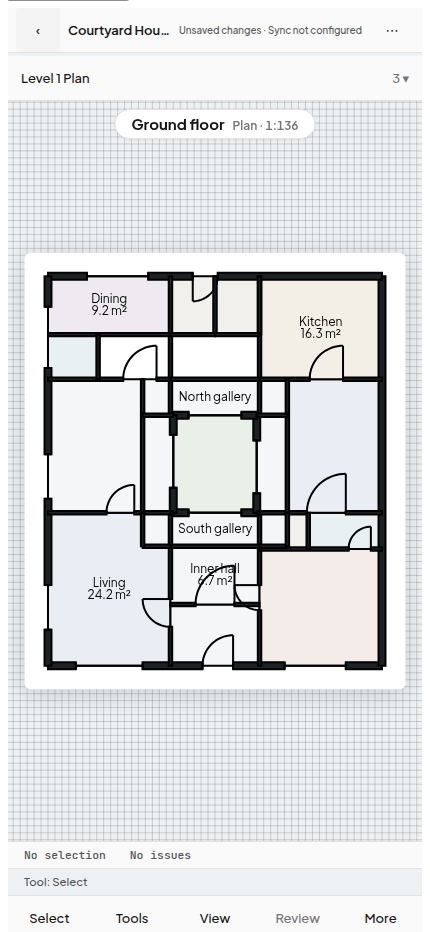
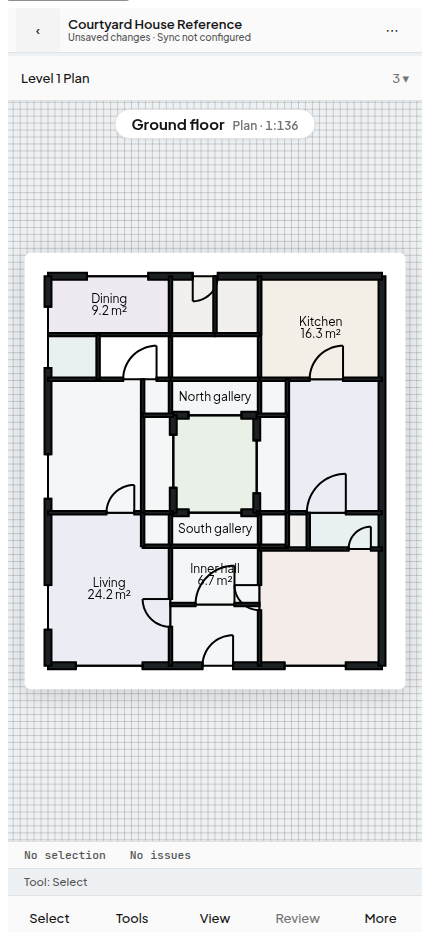
Make the left edge one dock, and stop the phone truncating its own project
Two of the defects from my own critique of the last capture.

**One dock, not two.** The mode rail and the tool rail are separate components
on purpose - they answer different questions and keep their own landmarks and
labels - but they were also two floating *cards* with a gutter between them, so
the left edge read as two toolbars competing for the same job. They are joined
by geometry now: the seam closes, the outer corners keep their radius, and
nothing about the accessibility tree changes. The reference gives the whole edge
to one dock and so does this.

**The phone was truncating the project rather than the status.** The name had
`flex: 1` and ellipsis while the status beside it was `flex: 0 0 auto` and
`nowrap`, so on a 430px bar the status always won and the project came out as
"Courtyard Hou…". Identity was losing to state in the one place doc 36 says
identity never disappears. Stacked now: the name takes the full width and state
sits underneath in a quieter voice, which is both the order they are read in and
the order they matter in. Neither is dropped.

Evidence: `pnpm vitest run` 3,624 tests / 336 files uncached; typecheck, lint,
build and the language ladder clean; four-viewport capture green, and the phone
capture shows "Courtyard House Reference" in full.

Claude-Session: https://claude.ai/code/session_01TEEE1RRTKuqjgx5nTuYNHd

Changed region(s): [[0.1512, 0.0, 0.6047, 0.0622], [0.6349, 0.0311, 0.8465, 0.0622]]

diff --git a/packages/design-system/src/workspace/phone-project-bar.tsx b/packages/design-system/src/workspace/phone-project-bar.tsx
@@ -121,34 +121,49 @@ export function PhoneProjectBar(props: PhoneProjectBarProps): JSX.Element {
 
       {logo}
 
+      {/*
+       * Stacked, and that is a correction rather than a style preference.
+       *
+       * The name took `flex: 1` and truncated while the status beside it was
+       * `flex: 0 0 auto` and `nowrap` - so on a 430px bar the status always won
+       * and the project came out as "Courtyard Hou…". Identity was losing to
+       * state in the one place doc 36 says identity never disappears.
+       *
+       * Two lines gives the name the full width and puts state underneath in a
+       * quieter voice, which is the order they are read in and the order they
+       * matter in. Neither is dropped.
+       */}
       <span
-        className="arq-phone-project-bar__name"
-        // Doc 36: project identity never disappears. It truncates rather than
-        // wrapping or being dropped, and the full name stays in the title.
-        title={projectName}
-        style={{
-          flex: 1,
-          minWidth: 0,
-          overflow: 'hidden',
-          textOverflow: 'ellipsis',
-          whiteSpace: 'nowrap',
-          fontWeight: 600,
-        }}
+        className="arq-phone-project-bar__identity"
+        style={{ flex: 1, minWidth: 0, display: 'flex', flexDirection: 'column', lineHeight: 1.15 }}
       >
-        {projectName}
-      </span>
-
-      <span
-        className="arq-phone-project-bar__status"
-        aria-live="polite"
-        style={{
-          flex: '0 0 auto',
-          fontSize: '0.75em',
-          color: 'var(--arq-ui-text-secondary)',
-          whiteSpace: 'nowrap',
-        }}
-      >
-        {describeSaveState(saveState)} · {describeSyncState(syncState)}
+        <span
+          className="arq-phone-project-bar__name"
+          // Doc 36: project identity never disappears. It truncates rather than
+          // wrapping or being dropped, and the full name stays in the title.
+          title={projectName}
+          style={{
+            overflow: 'hidden',
+            textOverflow: 'ellipsis',
+            whiteSpace: 'nowrap',
+            fontWeight: 600,
+          }}
+        >
+          {projectName}
+        </span>
+        <span
+          className="arq-phone-project-bar__status"
+          aria-live="polite"
+          style={{
+            fontSize: '0.75em',
+            color: 'var(--arq-ui-text-secondary)',
+            overflow: 'hidden',
+            textOverflow: 'ellipsis',
+            whiteSpace: 'nowrap',
+          }}
+        >
+          {describeSaveState(saveState)} · {describeSyncState(syncState)}
+        </span>
       </span>
 
       <button

diff --git a/packages/design-system/src/workspace/workspace-shell.css b/packages/design-system/src/workspace/workspace-shell.css
@@ -119,6 +119,32 @@
   }
 
   /*
+   * One dock, not two.
+   *
+   * The rails are separate components on purpose - they answer different
+   * questions ("what am I doing?" and "what am I doing it with?") and stay
+   * semantically apart, each with its own landmark and label. But they were
+   * also two *cards*, floating side by side with a gutter between them, so the
+   * left edge read as two toolbars competing for the same job. The reference
+   * gives the whole edge to one dock.
+   *
+   * Joined by geometry rather than by merging the markup: the seam closes, the
+   * outer corners keep their radius, and a single divider line says where one
+   * ends. Nothing about the accessibility tree changes.
+   */
+  .arq-workspace .arq-mode-rail {
+    border-start-end-radius: 0;
+    border-end-end-radius: 0;
+    border-inline-end: 0;
+  }
+
+  .arq-workspace .arq-mode-rail + .arq-tool-rail {
+    margin-inline-start: calc(-1 * var(--arq-space-compact));
+    border-start-start-radius: 0;
+    border-end-start-radius: 0;
+  }
+
+  /*
    * The status strip is the quietest thing in the workspace and does not earn
    * a full-width card. It shrinks to its content and sits at the leading edge,
    * which is also what stops it competing with the drawing above it.
